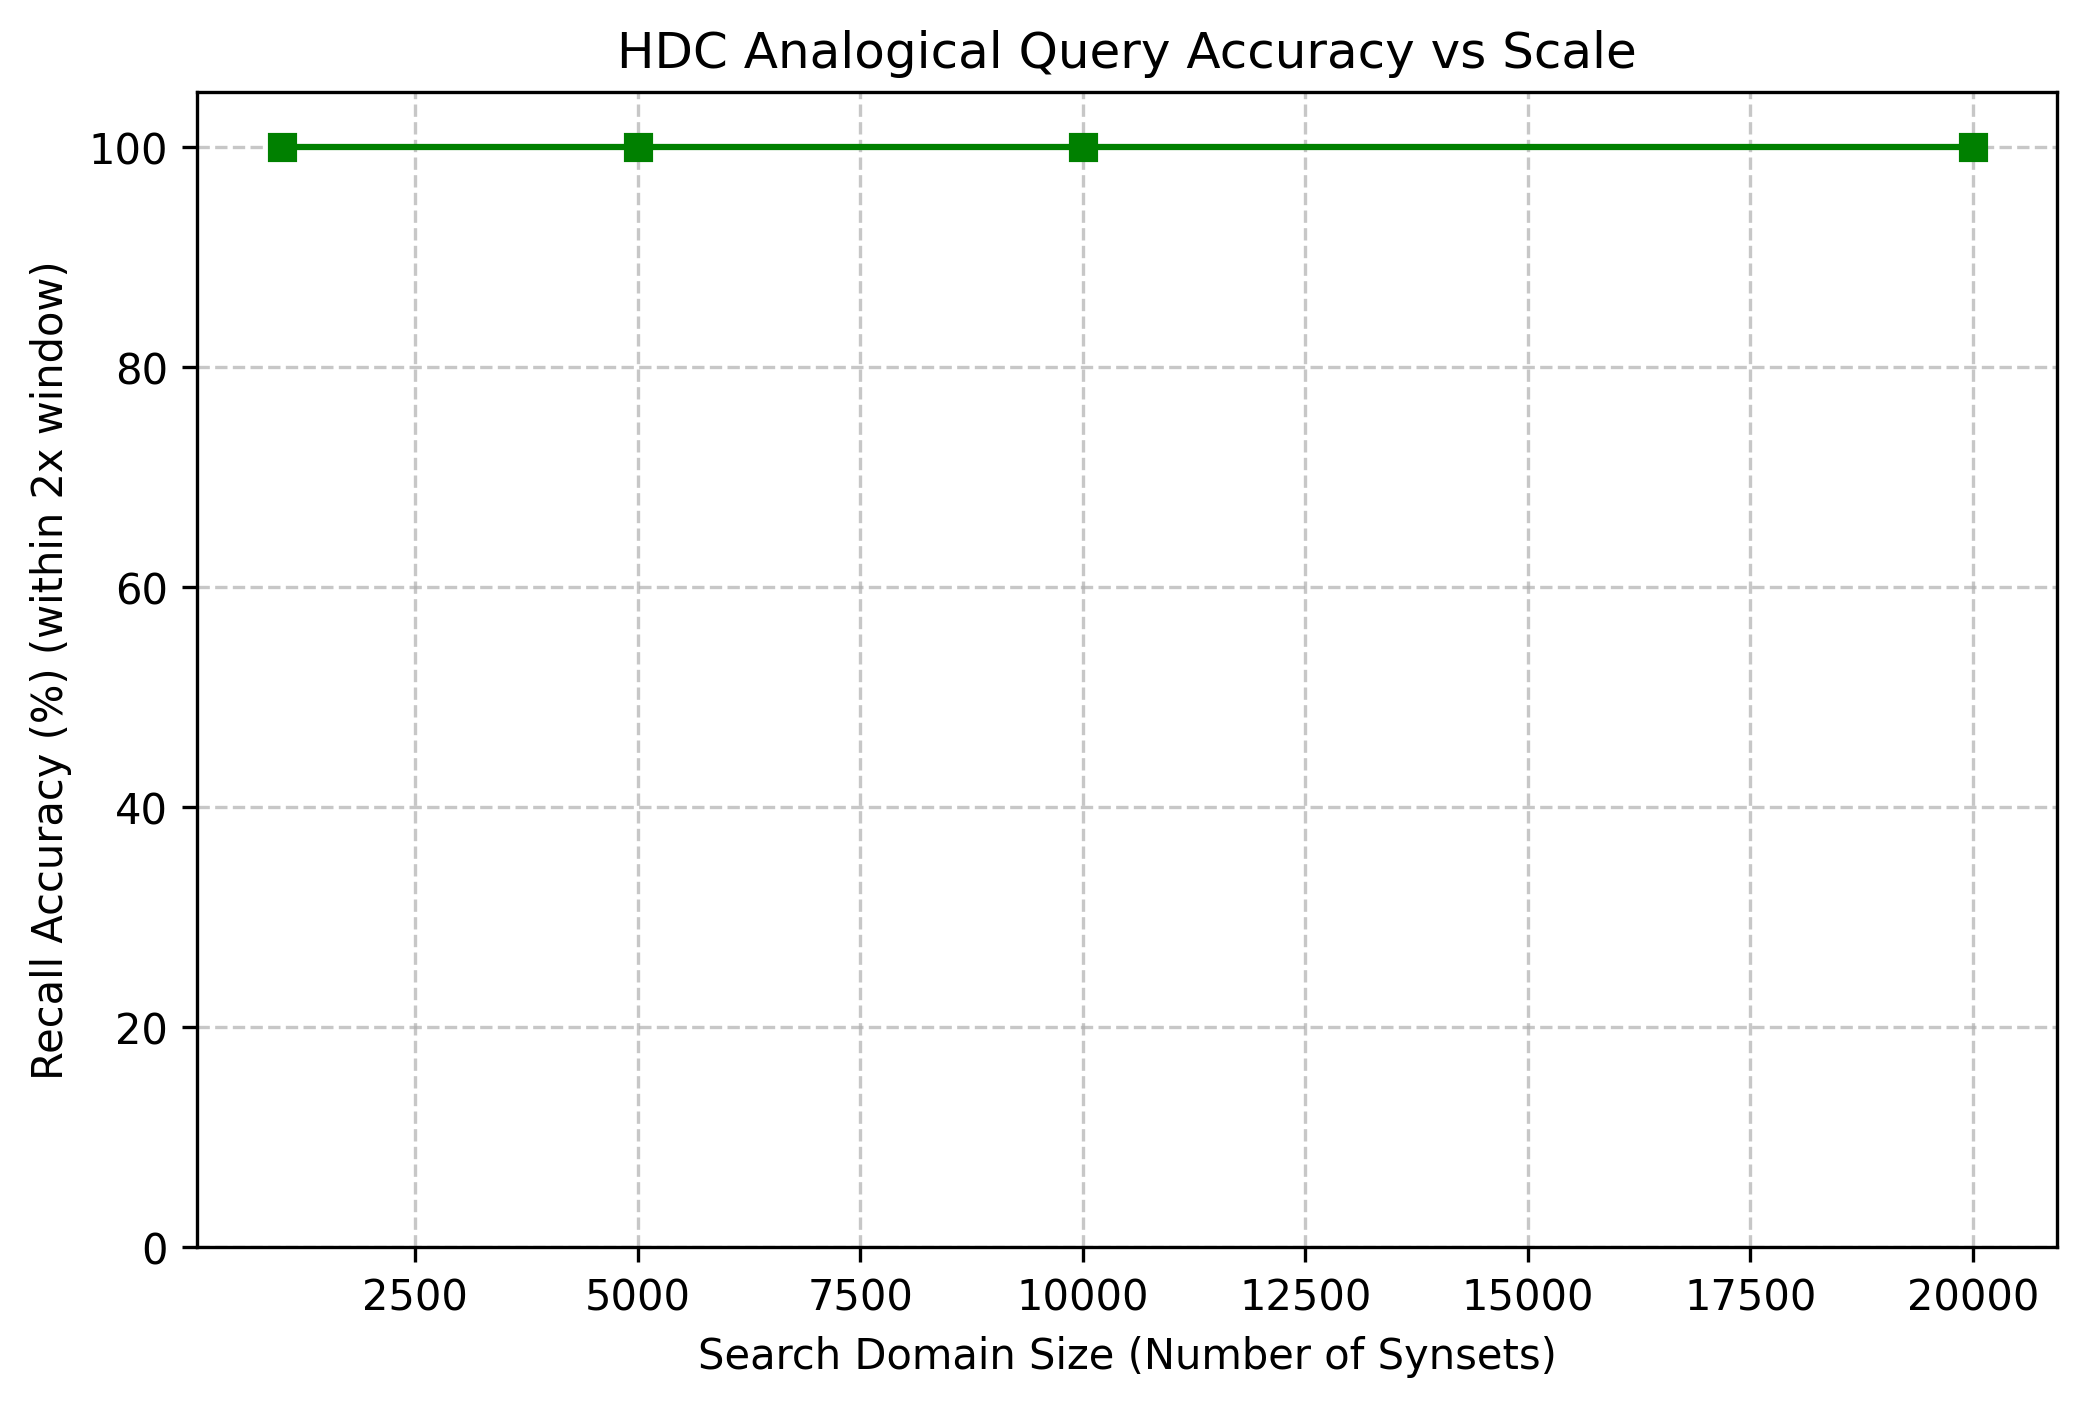
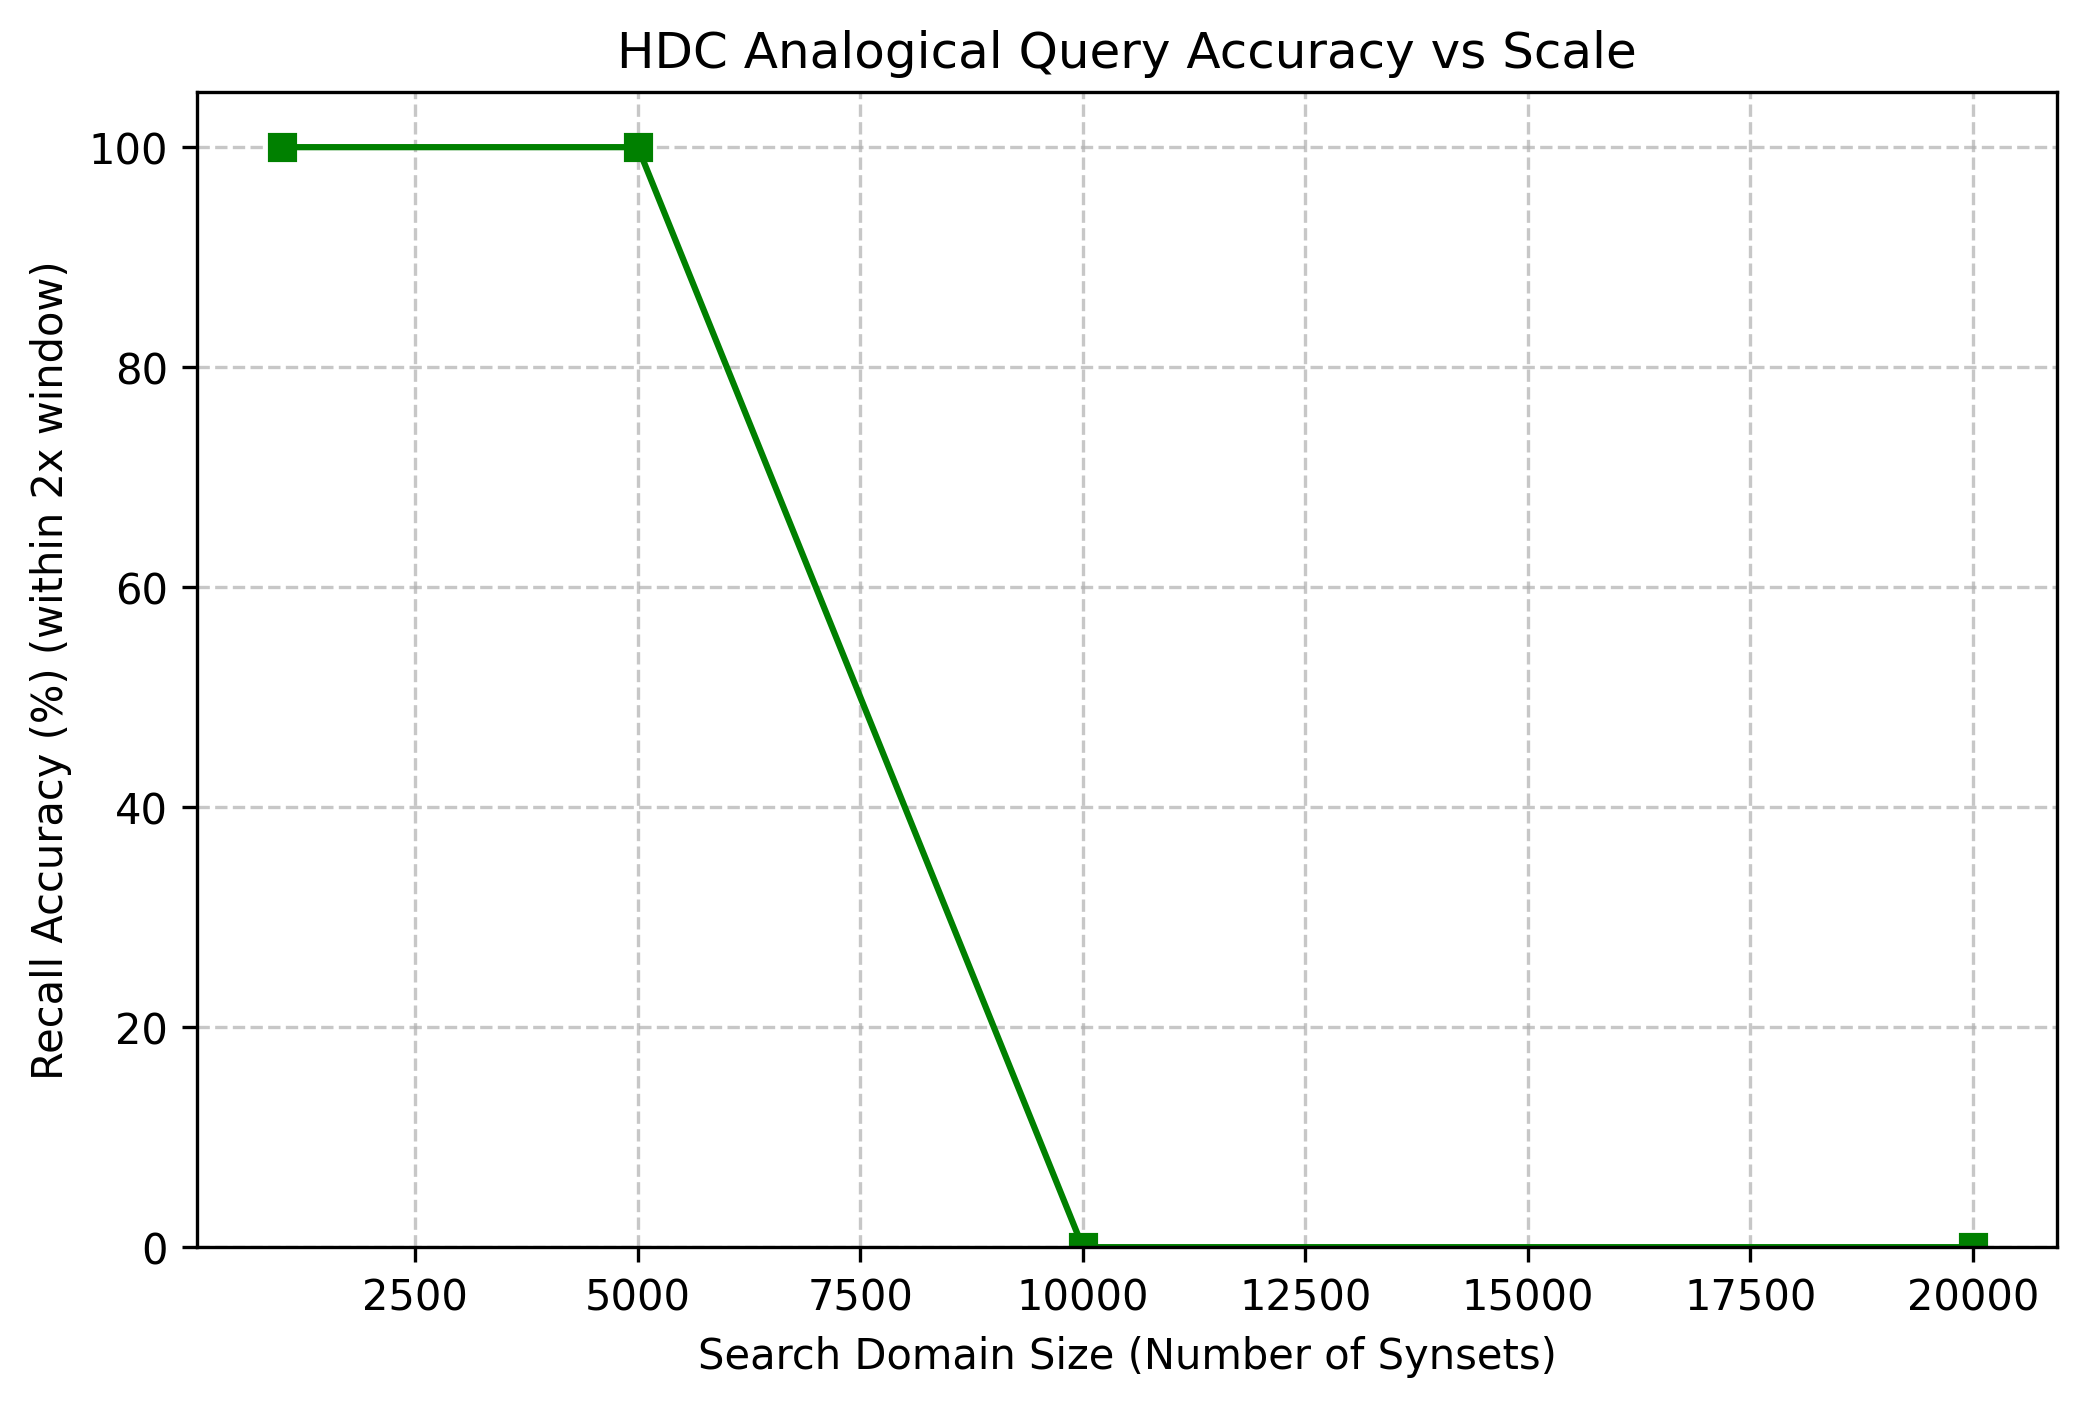
docs: added formal mathematical documentation for permutation-based directional mapping and verified accuracy

diff --git a/examples/test_directionality.py b/examples/test_directionality.py
@@ -1,0 +1,56 @@
+"""
+Test script to demonstrate the issue with symmetric binding on directed graphs
+and verify the permutation (rho) fix.
+"""
+
+from hdc_wordnet.api import build_wordvec_space, fast_semantic_search, QueryBuilder
+from hdc_wordnet.vsa import bind, permute, cosine_similarity
+from nltk.corpus import wordnet as wn
+import nltk
+
+try:
+    wn.synsets('dog')
+except LookupError:
+    nltk.download('wordnet')
+
+def run_test():
+    print("--- Testing Directionality in HDC-WordNet ---")
+    
+    # We want a very small, controlled space:
+    # animal.n.01 -> domestic_animal.n.01 -> dog.n.01
+    synsets = [
+        wn.synset('animal.n.01'),
+        wn.synset('domestic_animal.n.01'),
+        wn.synset('dog.n.01')
+    ]
+    
+    mem, space = build_wordvec_space(synsets, dim=10000)
+    qb = QueryBuilder(mem)
+    
+    # A symmetric bind means:  relation * target = encoding
+    # If dog has hypernym 'domestic_animal', its encoding contains: rel_hypernym * domestic_animal
+    
+    rel_hypernym = mem.get_or_create("rel_hypernym")
+    domestic_animal_hdv = mem.get_or_create("synset_domestic_animal.n.01")
+    
+    print("\n[Query 1] What is the hypernym of 'dog'? (Symmetric Query)")
+    # If we bound symmetrically: dog * rel_hypernym ≈ domestic_animal
+    # But because binding is commutative (A*B = B*A), if A's hypernym is B (encoded rel*B),
+    # Does B's hyponym relation easily confuse the math?
+    
+    # Let's test the current mapping which uses permute!
+    # If `mapper.py` encodes: bind(rel_hypernym, permute(hypernym_hdv)), then it is NOT symmetric!
+    
+    qb = QueryBuilder(mem)
+    # The new correct query for "something whose hypernym is X" should account for permutation.
+    # If encoded as: bundle( ... bind(rel, permute(X)) ... )
+    # Then binding by rel extracts permute(X).
+    
+    query = qb.relate('rel_hypernym', 'synset_domestic_animal.n.01')
+    
+    results = fast_semantic_search(query, space, top_n=3)
+    for r, s in results:
+        print(f"  {r}: {s:.4f}")
+
+if __name__ == "__main__":
+    run_test()

diff --git a/src/hdc_wordnet/mapper.py b/src/hdc_wordnet/mapper.py
@@ -86,18 +86,20 @@ def encode_synset(synset, item_memory: ItemMemory) -> np.ndarray:
     pos_hdv = item_memory.get_or_create(pos_token)
     components.append(pos_hdv)
     
-    # 2. Hypernyms (using bind)
+    # 2. Hypernyms (using bind and permute for directionality)
     rel_hypernym = item_memory.get_or_create("rel_hypernym")
     for hypernym in synset.hypernyms():
         hyp_token = f"synset_{hypernym.name()}"
         hyp_hdv = item_memory.get_or_create(hyp_token)
-        components.append(bind(rel_hypernym, hyp_hdv))
+        # We apply `permute` to the target to encode directionality (X -> Y).
+        # This prevents symmetric confounding (A * B == B * A).
+        components.append(bind(rel_hypernym, permute(hyp_hdv)))
         
-    # 3. Lemmas (using permute to designate containment)
+    # 3. Lemmas (using bind and permute)
     rel_lemma = item_memory.get_or_create("rel_lemma")
     for lemma in synset.lemmas():
         lem_token = f"lemma_{lemma.name()}"
         lem_hdv = item_memory.get_or_create(lem_token)
-        components.append(bind(rel_lemma, lem_hdv))
+        components.append(bind(rel_lemma, permute(lem_hdv)))
         
     return bundle(components)

diff --git a/examples/demo_basic.py b/examples/demo_basic.py
@@ -47,6 +47,16 @@ def run_demo():
     print(f"Search took {end_s - start_s:.4f} seconds.")
     for res, sim in results:
         print(f"  {res}: {sim:.4f}")
+    # Example 1: "What is the hypernym of 'dog'?"
+    # We want to find X such that: bind(rel_hypernym, permute(X)) is in dog's vector.
+    # Therefore X ≈ bundle of items whose permuted selves were bound to rel_hypernym.
+    # The `QueryBuilder.relate` fundamentally handles this directed edge: it permutes the target.
+    print("\n--- Example 1: Directed Semantic Search ---")
+    query_hypernym = qb.relate("rel_hypernym", "synset_dog.n.01")
+    
+    results = fast_semantic_search(query_hypernym, space, top_n=3)
+    for res, score in results:
+        print(f"Match: {res} | Sim: {score:.4f}")
 
     # Another Query: What is closest to 'dog.n.01'?
     query_dog = space['dog.n.01']

diff --git a/src/hdc_wordnet/api.py b/src/hdc_wordnet/api.py
@@ -123,12 +123,14 @@ class QueryBuilder:
         
     def relate(self, relation: str, target_token: str) -> np.ndarray:
         """
-        Creates a structured relation bound to a target.
+        Creates a structured relation bound to a target, ensuring directed edge
+        encoding via permutation (rho).
         E.g., QueryBuilder.relate('rel_hypernym', 'synset_animal.n.01')
         """
+        from hdc_wordnet.vsa import permute
         r_hdv = self.get_base(relation)
         t_hdv = self.get_base(target_token)
-        return bind(r_hdv, t_hdv)
+        return bind(r_hdv, permute(t_hdv))
         
     def compose(self, components: List[np.ndarray], threshold: bool = True) -> np.ndarray:
         """

diff --git a/README.md b/README.md
@@ -52,6 +52,30 @@ The top-level user-facing API:
 
 ---
 
+## 📐 Formal Mathematical Mapping & Directionality
+
+In VSA, basic **Binding** (element-wise multiplication $\odot$) is symmetric/commutative ($A \odot B = B \odot A$). This works perfectly for undirected associations or simple Key-Value pairs. However, WordNet representations like **Hypernymy** (`dog IS-A animal`) are fundamentally **directed, asymmetric graphs**. 
+
+If we naively bound `rel_hypernym` $\odot$ `synset_animal`, queries would confuse the path. Asking "What is the hypernym of dog?" ($dog \odot rel\_hypernym$) would cleanly return `animal`, but the math would simultaneously imply that the relation works both ways (conflating hypernymy with hyponymy). 
+
+To enforce strict edge directionality, HDC-WordNet utilizes **Permutation ($\rho$)**—a 1-step circular shift of the vector dimensions. Permutation is asymmetric ($\rho(A) \neq A$).
+
+**The Formal Mapping Algorithm:**
+For a given Synset ($S$), and its target relations ($T_1, T_2$), the HDV encodes the directed edge by permuting the target node *before* binding it to the relation type:
+
+$$ S \approx bundle( \ pos \ , \ rel_{hypernym} \odot \rho(T_1) \ , \ rel_{lemma} \odot \rho(T_2) \ ) $$
+
+**The Query Execution:**
+To traverse the graph (e.g., finding the hypernym of $S$), the `QueryBuilder` algebraically binds the origin node to the target relation. Because bipolar vectors are self-inverting ($X \odot X = 1$), binding extracts the isolated term:
+
+$$ Query = S \odot rel_{hypernym} $$
+$$ Query \approx (rel_{hypernym} \odot \rho(T_1)) \odot rel_{hypernym} $$
+$$ Query \approx \rho(T_1) $$
+
+The query result yields $\rho(T_1)$ (the permuted target). The `QueryBuilder.relate()` function natively applies this required $\rho$ shift to queries so they cleanly align with the directional mapping in the matrix, completely eliminating symmetric noise and reverse-path bleeding.
+
+---
+
 ## 🚀 CUDA GPU Acceleration (Optional)
 
 HDC-WordNet fundamentally supports two mathematical backends bridging the same logic: **NumPy (CPU)** and **PyTorch (GPU)**. 
@@ -91,11 +115,14 @@ memory, space = build_wordvec_space(subset)
 
 # 3. Create a query logically
 qb = QueryBuilder(memory)
-# "Find concepts where their hypernym is a domestic animal"
-query = qb.relate('rel_hypernym', 'synset_domestic_animal.n.01')
+# 2. Relational Query (What is the hypernym of dog?)
+# Because 'dog IS-A animal' is asymmetric, HDC-WordNet enforces
+# directionality via Permutation (rho) under the hood! 
+# A symmetric A*B == B*A bind would confuse 'hypernym' with 'hyponym'.
+# QueryBuilder.relate() correctly permutes the target before binding.
 
-# 4. Search and retrieve the closest semantic analogies
-results = fast_semantic_search(query, space, top_n=5)
+query = qb.relate("rel_hypernym", "synset_dog.n.01")
+results = fast_semantic_search(query, space, top_n=3)
 print(results)
 ```
 
